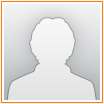
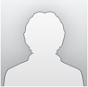
new

diff --git a/www/templates/main/publish.html b/www/templates/main/publish.html
@@ -1,0 +1,92 @@
+<ion-view>
+
+  <link href="css/demo.css" rel="stylesheet">
+
+  <ion-nav-bar class="bar-stable nav-title-slide-ios7">
+    <ion-nav-buttons side="left">
+      <button class="button button-clear" custom-go-back>
+        <i class="icon ion-ios7-arrow-back"></i>
+      </button>
+    </ion-nav-buttons>
+    <h1 class="title">
+        信息发布
+    </h1>
+    <div class="buttons">
+      <button class="button button-clear ion-navicon-round" ng-click="openPopover($event)">
+      </button>
+    </div>
+  </ion-nav-bar>
+  
+  <ion-content class="has-footer">
+  <div class="list list-inset">
+      <label class="item item-input">
+        <div class="input-label">
+          发布类型
+        </div>
+        <select ng-model="typeName" ng-options="type.name group by type.category for type in types">
+        </select>
+      </label>
+
+      <ion-item class="item-divider">
+        发布内容
+      </ion-item>
+      <label class="item item-input item-stacked-label">
+        <span class="input-label">标题</span>
+        <input type="text" ng-model="item.itemTitle">
+      </label>
+
+      <label class="item item-input item-stacked-label">
+        <span class="input-label">栏目说明</span>
+        <input type="text" ng-model="item.state">
+      </label>
+
+      <label class="item item-input item-stacked-label">
+        <span class="input-label">链接网址</span>
+        <input type="text" ng-model="item.itemLink">
+      </label>
+
+      <ion-item class="item-divider">
+        联系方式
+      </ion-item>
+
+      <label class="item item-input">
+        <span class="input-label">联系人</span>
+        <input type="text" ng-model="item.contacts">
+      </label>
+
+      <label class="item item-input">
+        <span class="input-label">联系电话</span>
+        <input type="text" ng-model="item.phone">
+      </label>
+
+    </div>
+    
+    <div class="row">
+      <div class="col">
+        <button class="button button-block button-positive">
+            提交
+        </button>
+      </div>
+      <div class="col">
+        <button class="button button-block button-positive" ng-click="clearContent()">
+            重置
+        </button>
+      </div>
+    </div>
+    
+  </ion-content>
+
+  <ng-include src="'templates/common/footer.html'"></ng-include>
+
+</ion-view>
+
+<script id="my-popover.html" type="text/ng-template">
+  <ion-popover-view>
+    <ion-header-bar>
+      <h1 class="title">My Popover Title</h1>
+    </ion-header-bar>
+    <ion-content>
+      Hello!
+    </ion-content>
+  </ion-popover-view>
+</script>  

diff --git a/www/js/icyl/demo.controllers.js b/www/js/icyl/demo.controllers.js
@@ -728,7 +728,7 @@ angular.module('demo.controllers', [])
 
 //简版
 //首页
-.controller('simpleHomepage', ['$scope', 'Data', 'CustomNav', function($scope, Data, CustomNav) {
+.controller('simpleHomepage', ['$scope', '$ionicActionSheet', '$location', 'Data', 'CustomNav', function($scope, $ionicActionSheet, $location, Data, CustomNav) {
   var pageParams = 
   {
     tabCode: '',
@@ -746,6 +746,28 @@ angular.module('demo.controllers', [])
     pageParams.lastID = $scope.articleLists[$scope.articleLists.length - 1][0];
     moreData = true;
   });
+
+  // Triggered on a button click, or some other target
+  $scope.show = function() {
+    // Show the action sheet
+    var hideSheet = $ionicActionSheet.show({
+      buttons: [
+       { text: '发布文章' },
+       { text: '发布活动' }
+      ],
+      titleText: '发布',
+      cancelText: '取消',
+      cancel: function() {
+          // add cancel code..
+      },
+      buttonClicked: function(index) {
+        if(index == 0){
+          $location.path('/simple/publish');
+        }
+        return true;
+      }
+    });
+  };
 
   //下拉刷新
   $scope.doRefresh = function() {
@@ -791,19 +813,43 @@ angular.module('demo.controllers', [])
 
 //文章导航
 .controller('simpleNavArticle', ['$scope', function($scope) {
-  // $scope.items = [
-  //   {activityTitle:'关于举办“书海琴缘”省直机关单身青年钢琴训练营的报名', 
-  //    date:'2014-8-14',
-  //    content:'请提前报名'},
-  //   {activityTitle:'关于开展2014年度浙江省青年岗位能手评选的通知', 
-  //    date:'2014-8-14',
-  //    content:'请尽快报名'}
-  // ];
 
 }])
 
 //活动导航
 .controller('simpleNavActivity', ['$scope', function($scope) {
+
+}])
+
+//搜索
+.controller('simpleSearch', ['$scope', function($scope) {
+  
+}])
+
+//发布
+.controller('simplePublish', ['$scope', function($scope) {
+  $scope.item = {'itemTitle':'',
+    'state':'',
+    'itemLink':'',
+    'contacts':'省直团工委',
+    'phone':'13757196484'};
+
+  $scope.types = [
+    {name:'通知公告', category:'团讯要闻'},
+    {name:'头条新闻', category:'团讯要闻'},
+    {name:'新闻', category:'团讯要闻'},
+    {name:'本级活动', category:'活动超市'},
+    {name:'部门活动', category:'活动超市'},
+    {name:'活动回顾', category:'活动超市'},
+  ];
+
+  $scope.typeName = $scope.types[0];
+
+  $scope.clearContent = function() {
+    $scope.item.itemTitle = '';
+    $scope.item.state = '';
+    $scope.item.itemLink = '';
+  };
 
 }])
 

diff --git a/www/templates/main/homepage.html b/www/templates/main/homepage.html
@@ -9,10 +9,12 @@
     <h1 class="title">
       智慧团青
     </h1>
-    <div class="buttons">
-      <button class="button button-clear ion-funnel" ng-click="openPopover($event)">
+    <ion-nav-buttons side="right">
+      <a class="button button-icon icon ion-ios7-search" href="#/simple/search">
+      </a>
+      <button class="button button-icon icon ion-ios7-plus-outline" ng-click="show($event)">
       </button>
-    </div>
+    </ion-nav-buttons>
   </ion-nav-bar>
 
   <ion-content class="has-footer">
@@ -38,8 +40,26 @@
       </ion-slide>
     </ion-slide-box>
 
-  
-    <ion-refresher pulling-text="下拉刷新..." on-refresh="doRefresh()">
+    <div class="row no-padding">
+      <div class="col text-center">
+        <a class="button button-outline round-button-2 icon button-assertive ion-document-text"  href="#/simple/articleList/300"></a>
+        <p class="text-center-2"><b>文章</b></p>
+      </div>
+
+      <div class="col text-center">
+        <a class="button button-outline round-button-2 icon button-assertive ion-ios7-people" href="#/simple/activityList/301">
+        </a>
+        <p class="text-center-2"><b>活动</b></p>
+      </div>
+
+      <div class="col text-center">
+        <a class="button button-outline round-button-2 icon button-assertive ion-coffee" href="#">
+        </a>
+        <p class="text-center-2"><b>服务</b></p>
+      </div>
+    </div>
+
+    <ion-refresher pulling-text="释放刷新..." on-refresh="doRefresh()">
     </ion-refresher>
     <ion-list>
       <a class="item item-avatar" ng-repeat="item in articleLists" ng-href="http://17f.go5le.net/99_tj/991/news1.asp?id={{item[0]}}">

diff --git a/www/templates/simple.html b/www/templates/simple.html
@@ -28,6 +28,10 @@
         <h1 class="title">导航</h1>
       </header>
       <ion-content class="has-header">
+        <div class="text-center">
+            <img ng-src="img/defaultAvatar.png" class="round-avatar">
+          <p>欢迎</p>
+        </div>
         <ion-list>
           <ion-item nav-clear menu-close class="item-icon-left" href="#" >
               <i class="icon ion-ios7-home-outline"></i>
@@ -40,6 +44,14 @@
           <ion-item nav-clear menu-close class="item-icon-left" href="#/simple/navActivity" >
               <i class="icon ion-ios7-star-outline"></i>
               活动
+          </ion-item>
+          <ion-item nav-clear menu-close class="item-icon-left" href="#/main/personHomepage" >
+              <i class="icon ion-ios7-person-outline"></i>
+              我的
+          </ion-item>
+          <ion-item nav-clear menu-close class="item-icon-left" href="#" >
+              <i class="icon ion-ios7-bookmarks-outline"></i>
+              收藏
           </ion-item>
           <ion-item nav-clear menu-close class="item-icon-left" href="#" >
               <i class="icon ion-ios7-gear-outline"></i>

diff --git a/www/templates/main/search.html b/www/templates/main/search.html
@@ -1,0 +1,33 @@
+<ion-view>
+  <ion-nav-bar class="bar-stable nav-title-slide-ios7">
+    <ion-nav-buttons side="left">
+      <button class="button button-clear" custom-go-back>
+        <i class="icon ion-ios7-arrow-back"></i>
+      </button>
+    </ion-nav-buttons>
+    <h1 class="title">
+      搜索
+    </h1>
+    <ion-nav-buttons side="right">
+      
+    </ion-nav-buttons>
+  </ion-nav-bar>
+  
+  <ion-content class="has-footer">
+    <div class="list list-inset">
+      <label class="item item-input">
+        <i class="icon ion-search placeholder-icon"></i>
+        <input type="text" placeholder="Search">
+      </label>
+    </div>
+
+    <div class="padding">
+      <button class="button button-block button-positive">
+        查找
+      </button>
+    </div>
+  </ion-content>
+
+  <ng-include src="'templates/common/footer.html'"></ng-include>
+
+</ion-view>

diff --git a/www/js/icyl/app.js b/www/js/icyl/app.js
@@ -787,6 +787,30 @@ angular.module('icyl', dependencies)
         }
       }
     })
+
+    //搜索
+    .state('simple.search', {
+      url:'/search',
+      access: { authenticate: false },
+      views: {
+        'main-container': {
+          templateUrl: 'templates/main/search.html',
+          controller: 'simpleSearch'
+        }
+      }
+    })
+
+    //发布
+    .state('simple.publish', {
+      url:'/publish',
+      access: { authenticate: true },
+      views: {
+        'main-container': {
+          templateUrl: 'templates/main/publish.html',
+          controller: 'simplePublish'
+        }
+      }
+    })
     ;
 
   // if none of the above states are matched, use this as the fallback

diff --git a/www/css/app.css b/www/css/app.css
@@ -121,6 +121,7 @@
 .text-center-2 {
 	text-align: center;
 	margin-top: 0.3em;
+
 }
 /*.iframe-wrapper {
 	-webkit-overflow-scrolling: touch !important;
@@ -175,6 +176,21 @@ div.margin-top{
 	border-radius: 50%;
 	border:0;
 	color: #fff;
+}
+
+.round-button-2
+{
+	border-radius: 50%;
+	border: 1px solid #ef4e3a;
+}
+
+.round-avatar
+{
+	width:5em;
+	height:5em;
+	border-radius: 50%;
+	border:2px solid #dddddd;
+	margin: 0.5em;
 }
 
 /*.button .img-size .icon {
